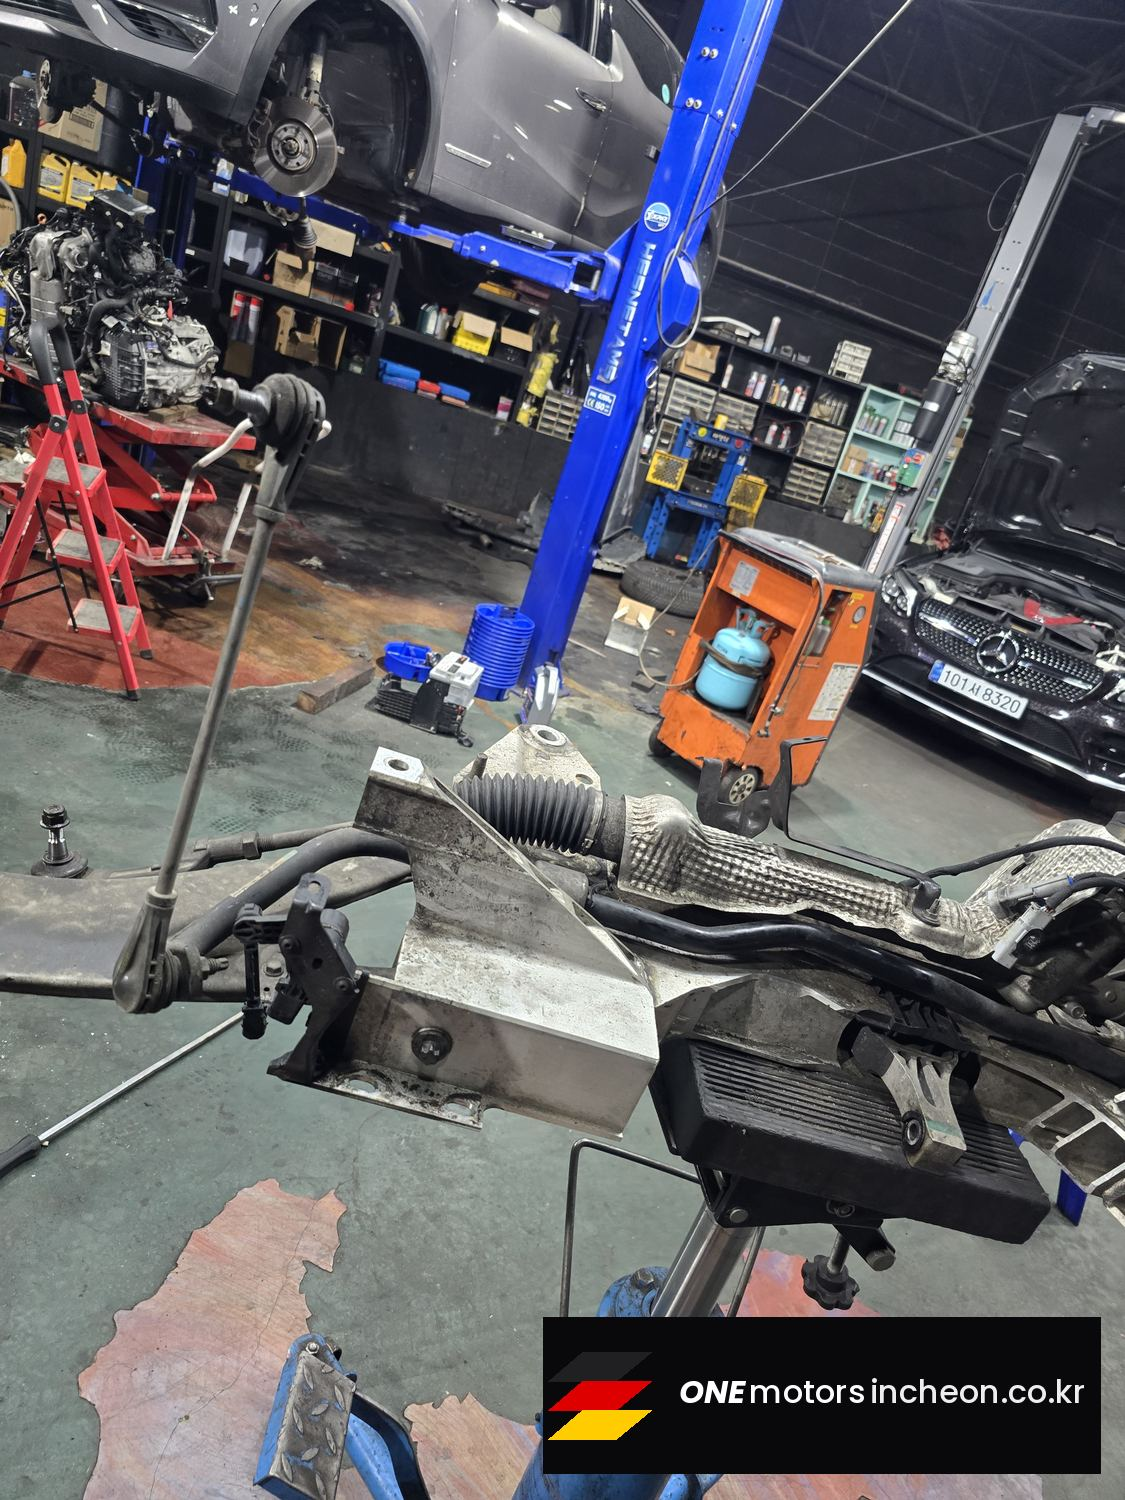
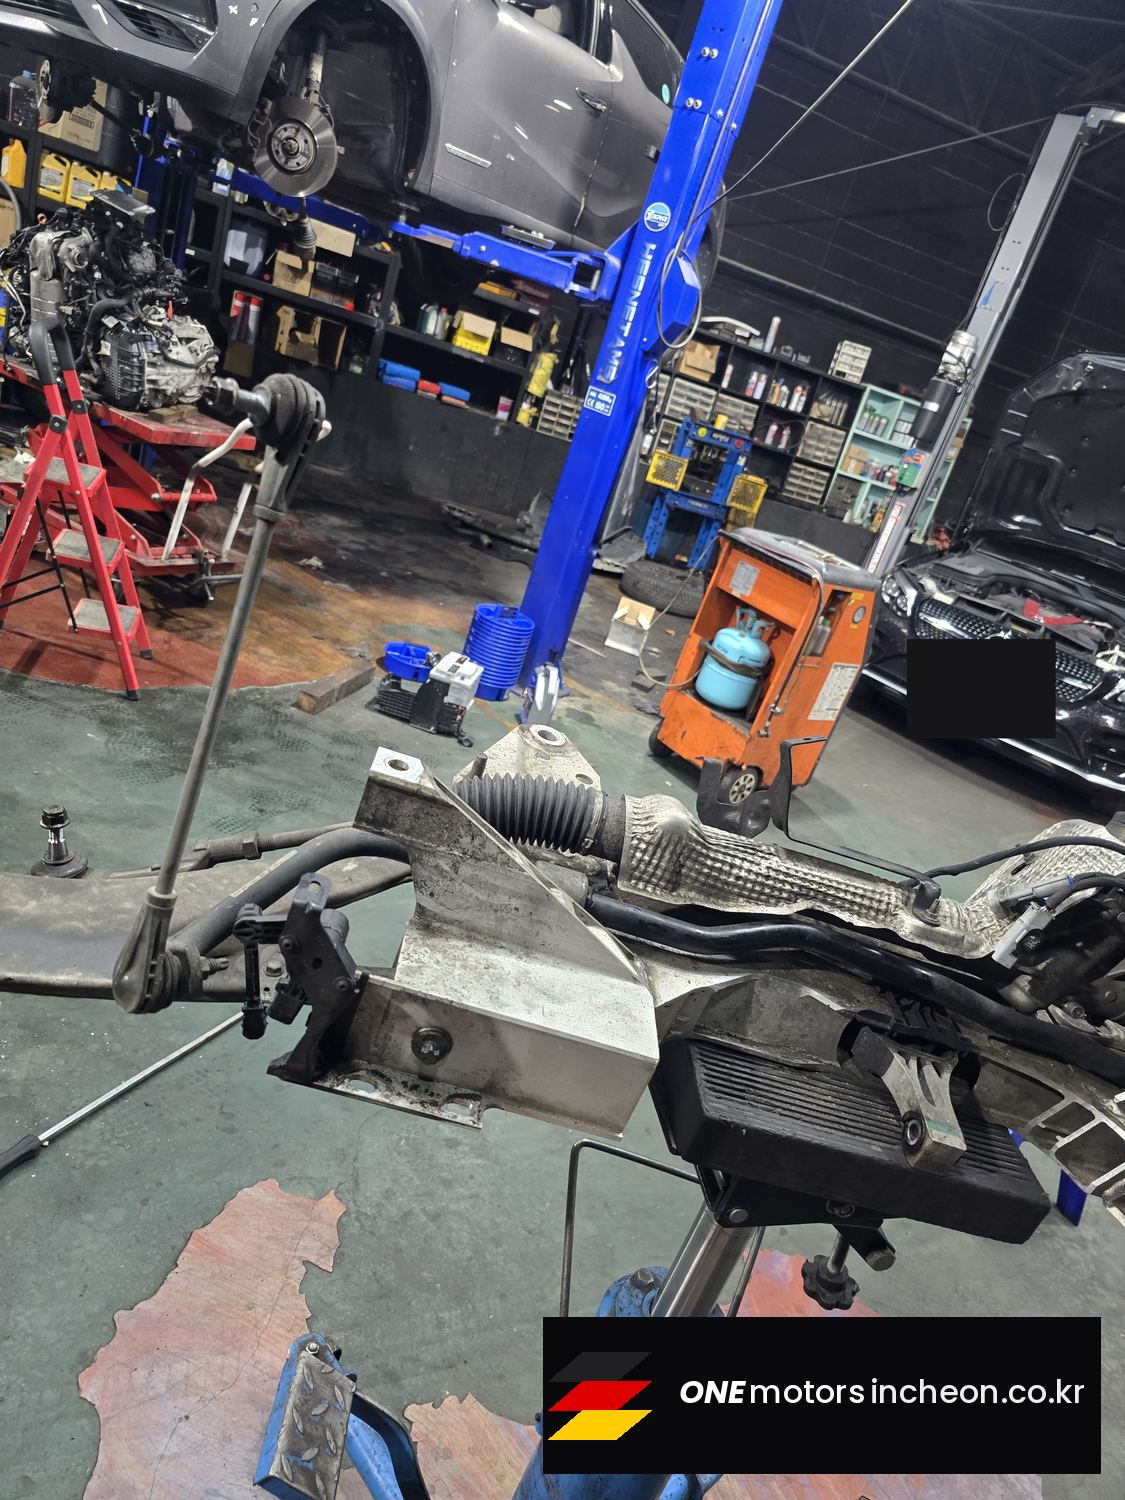
시트로엥 DS3 정비사례 추가 및 사진 전체보기로 변경

Changed region(s): [[0.8089, 0.3987, 0.9644, 0.4907]]

diff --git a/assets/css/style.css b/assets/css/style.css
@@ -1068,7 +1068,7 @@ li { list-style: none; }
 }
 .case-shots figure { margin: 0; }
 .case-shots img {
-  width: 100%; aspect-ratio: 4 / 3; object-fit: cover;
+  width: 100%; aspect-ratio: 4 / 3; object-fit: contain; background: #f2f4f7;
   border-radius: 10px; border: 1px solid #e3e6ea; cursor: zoom-in;
   transition: border-color .18s, transform .18s;
 }
